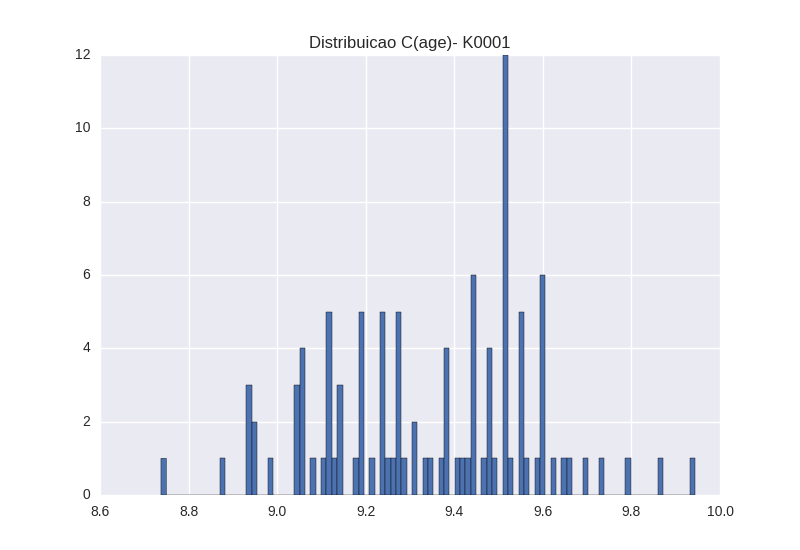
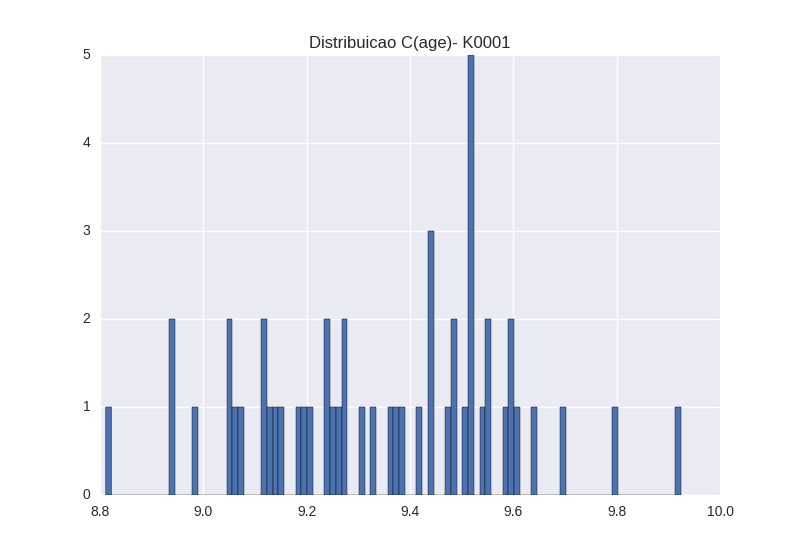
perfis radiais - testando

diff --git a/califa2_1.py b/califa2_1.py
@@ -5,7 +5,15 @@ Programa para trabalhar os dados do CALIFA
 Uma nova abordagem, sem separacao de populacoes estelares
 Retomando minha pesquisa... Que o Universo me ajude!
 
+Versão 2.0
 07-dezembro-2016
+------------------
+
+Versão 2.1
+22-fevereiro-2017
+Adição dos perfis radiais
+
+
 '''
 
 #!/usr/bin/python
@@ -80,7 +88,7 @@ def Z(df0,gal,Conc,ordem):
     m01=df['y'].sum() #Calculando o momento m01
     cx = int(m10/len(df)) #Calculando os centroides da imagem
     cy = int(m01/len(df))
-    delta = len(df)/100 #Quantidade de bins
+    delta = len(df)/50 #Quantidade de bins
     j=0
     for i in range(0,(len(df)), delta):
         df1 = df.ix[i:i+delta,:]
@@ -102,7 +110,7 @@ halpha = pd.read_csv('Hamaps/halpha.csv')
 
 
 #for i_gal in range(len(halpha)):
-for i_gal in range(0,2):
+for i_gal in range(0,4):
     print(bcolors.FAIL +'-'*79+ bcolors.ENDC)
     print(bcolors.FAIL + '-'*33 + 'OBJETO: %s' %halpha['num_gal'][i_gal] + '-'*33 + bcolors.ENDC)
     print(bcolors.FAIL +'-'*79+ bcolors.ENDC)
@@ -216,13 +224,13 @@ for i_gal in range(0,2):
     plt.close()
 
     plt.figure()
-    plt.scatter(raio_test.raio, ha_test.conc_ha)
+    #plt.ylim([0,0.6])
+    plt.scatter(raio_test.raio, raio_test.conc_raio)
     plt.title(gal)
     plt.ylabel('Concentraction')
-    plt.xlabel('Halpha')
-    plt.savefig('figures/concentracao/gal%s_concentration_halpha' %(gal))
+    plt.xlabel('Raio')
+    plt.savefig('figures/concentracao/gal%s_concentration_raio' %(gal))
     plt.close()
-
 
 
 
